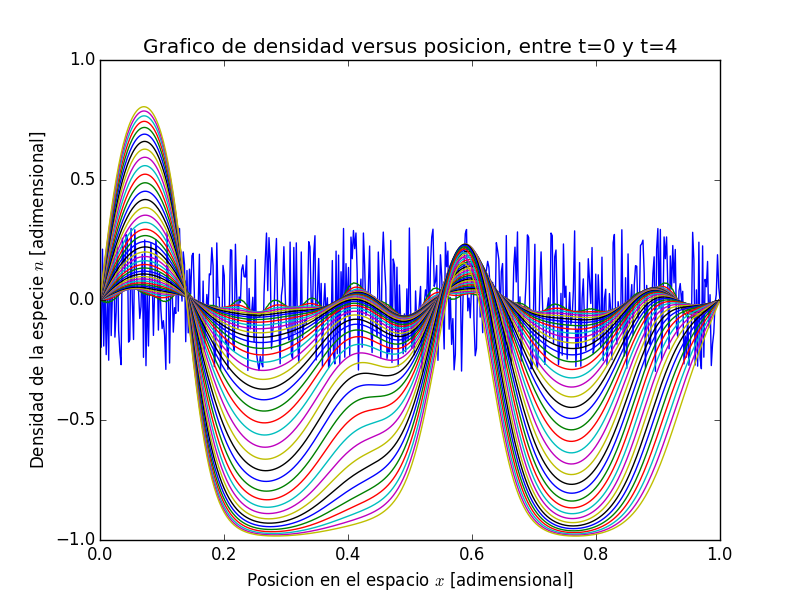
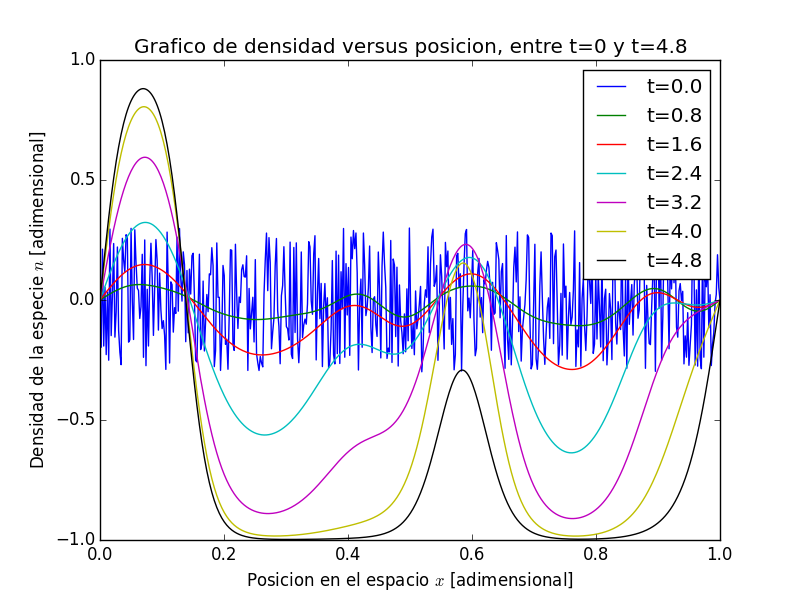
Cambios en los plots. Aprueba pep8

Changed region(s): [[0.125, 0.06, 0.9062, 0.9], [0.5, 0.84, 0.5312, 0.87]]

diff --git a/codigo2.py b/codigo2.py
@@ -10,7 +10,7 @@ from __future__ import division
 import numpy as np
 import matplotlib.pyplot as plt
 
-np.random.seed(5)
+np.random.seed(83819)
 
 
 def inicializa_T(T, N_steps):
@@ -65,7 +65,7 @@ N_steps = 500
 # Paso temporal dt
 dt = 0.01
 t_inicial = 0
-t_final = 4
+t_final = 5
 N_pasos_temporales = ((t_final - t_inicial) / dt) + 1
 
 x_inicial = 0
@@ -107,13 +107,14 @@ fig = plt.figure(1)
 fig.clf()
 ax = fig.add_subplot(111)
 
-for i in range(0, int(N_pasos_temporales), 10):
-    ax.plot(x, T_solucion[i, :])
+for i in range(0, int(N_pasos_temporales), 80):
+    ax.plot(x, T_solucion[i, :],  label="t="+str(i*dt))
 
 ax.set_xlabel("Posicion en el espacio $x$ [adimensional]")
 ax.set_ylabel("Densidad de la especie $n$ [adimensional]")
-ax.set_title("Grafico de densidad versus posicion, entre t=0 y t=4")
+ax.set_title("Grafico de densidad versus posicion, entre t=0 y t=4.8")
+plt.legend(loc='upper right')
 
-fig.savefig("p_2.png")
+fig.savefig("p_2_seed83819.png")
 plt.show()
 plt.draw()

diff --git a/codigo1.py b/codigo1.py
@@ -62,7 +62,7 @@ N_steps = 500
 # Paso temporal dt
 dt = 0.01
 t_inicial = 0
-t_final = 4
+t_final = 5
 N_pasos_temporales = ((t_final - t_inicial) / dt) + 1
 
 x_inicial = 0
@@ -104,12 +104,13 @@ fig = plt.figure(1)
 fig.clf()
 ax = fig.add_subplot(111)
 
-for i in range(0, int(N_pasos_temporales), 20):
-    ax.plot(x, T_solucion[i, :])
+for i in range(0, int(N_pasos_temporales), 80):
+    ax.plot(x, T_solucion[i, :], label="t="+str(i*dt))
 ax.set_ylim(0, 1)
 ax.set_xlabel("Posicion en el espacio $x$ [adimensional]")
 ax.set_ylabel("Densidad de la especie $n$ [adimensional]")
-ax.set_title("Grafico de densidad versus posicion, entre t=0 y t=4")
+ax.set_title("Grafico de densidad versus posicion, entre t=0 y t=4.8")
+plt.legend(loc='lower left')
 
 fig.savefig("p_1.png")
 plt.show()
